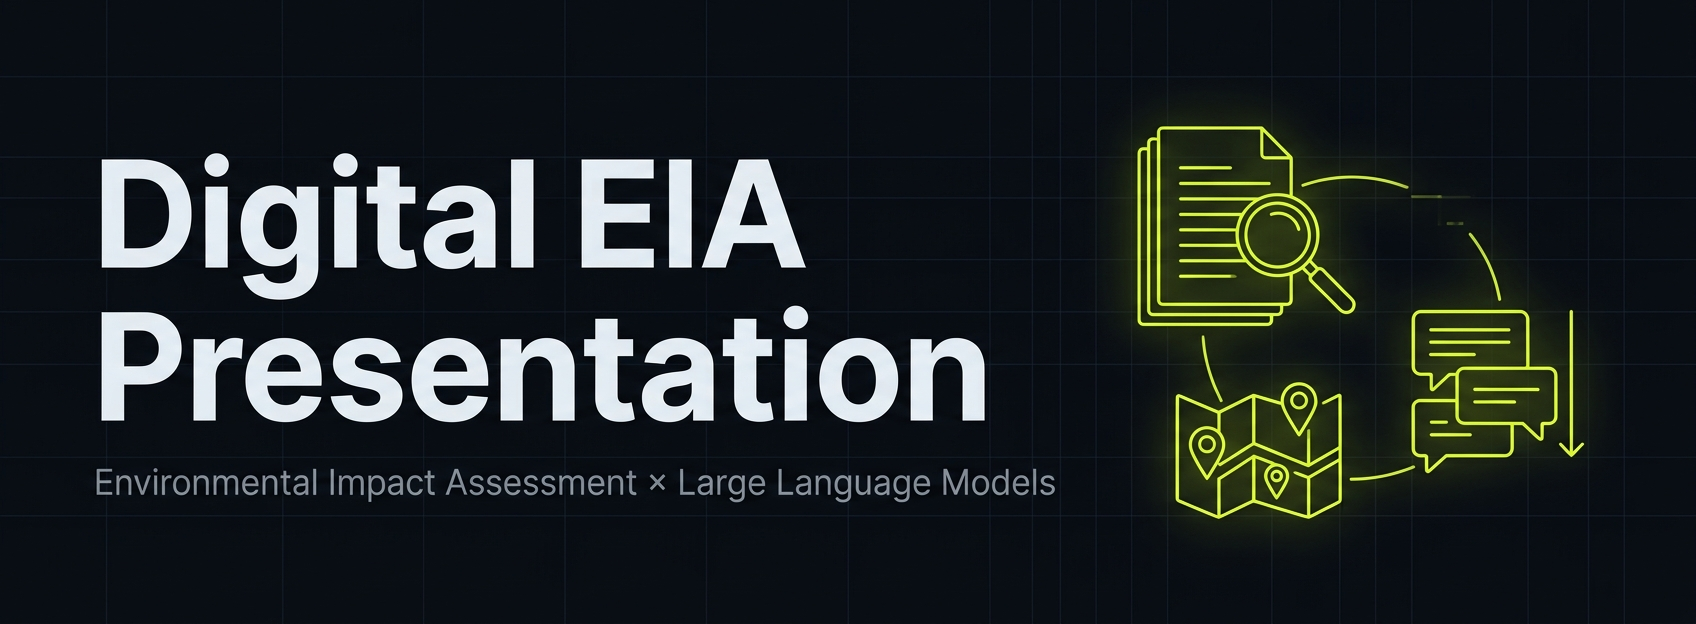
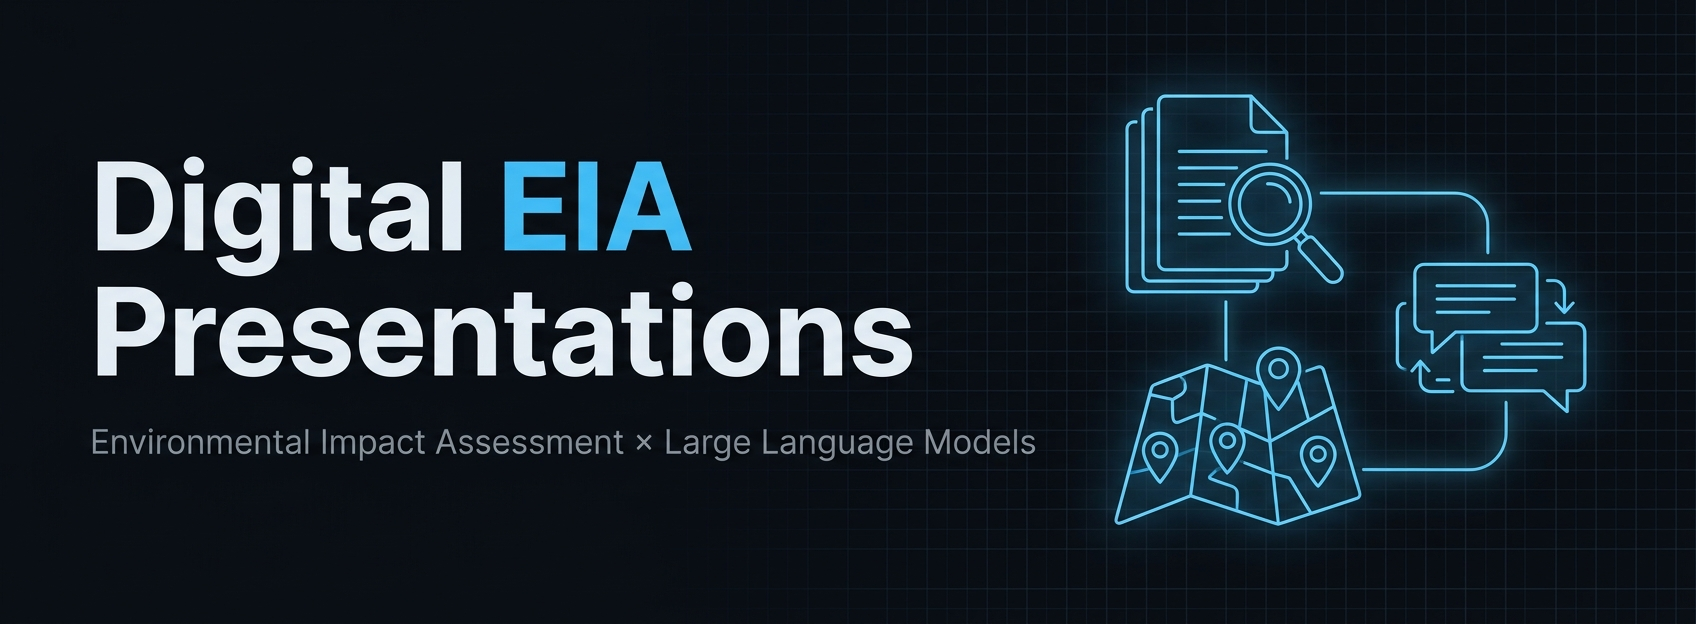
Apply KEI blue (#00A4E0) as accent color — variant 1/3

Changed region(s): [[0.0312, 0.2436, 0.625, 0.7308], [0.625, 0.1218, 0.9688, 0.8526], [0.0312, 0.7612, 0.625, 0.7917]]

diff --git a/index.html b/index.html
@@ -29,7 +29,7 @@
       margin-bottom: 10px;
       letter-spacing: -0.02em;
     }
-    .accent { color: #c6ff00; }
+    .accent { color: #00A4E0; }
     .subtitle {
       font-size: 1rem;
       color: #8b949e;
@@ -55,9 +55,9 @@
       text-align: left;
     }
     .item:hover {
-      border-color: #c6ff00;
+      border-color: #00A4E0;
       transform: translateX(4px);
-      box-shadow: -4px 0 0 0 #c6ff00;
+      box-shadow: -4px 0 0 0 #00A4E0;
     }
     .item-title {
       font-size: 1.05rem;
@@ -73,7 +73,7 @@
       font-size: 1.2rem;
       transition: color 0.2s ease;
     }
-    .item:hover .item-arrow { color: #c6ff00; }
+    .item:hover .item-arrow { color: #00A4E0; }
     .footer {
       position: fixed;
       bottom: 16px;
